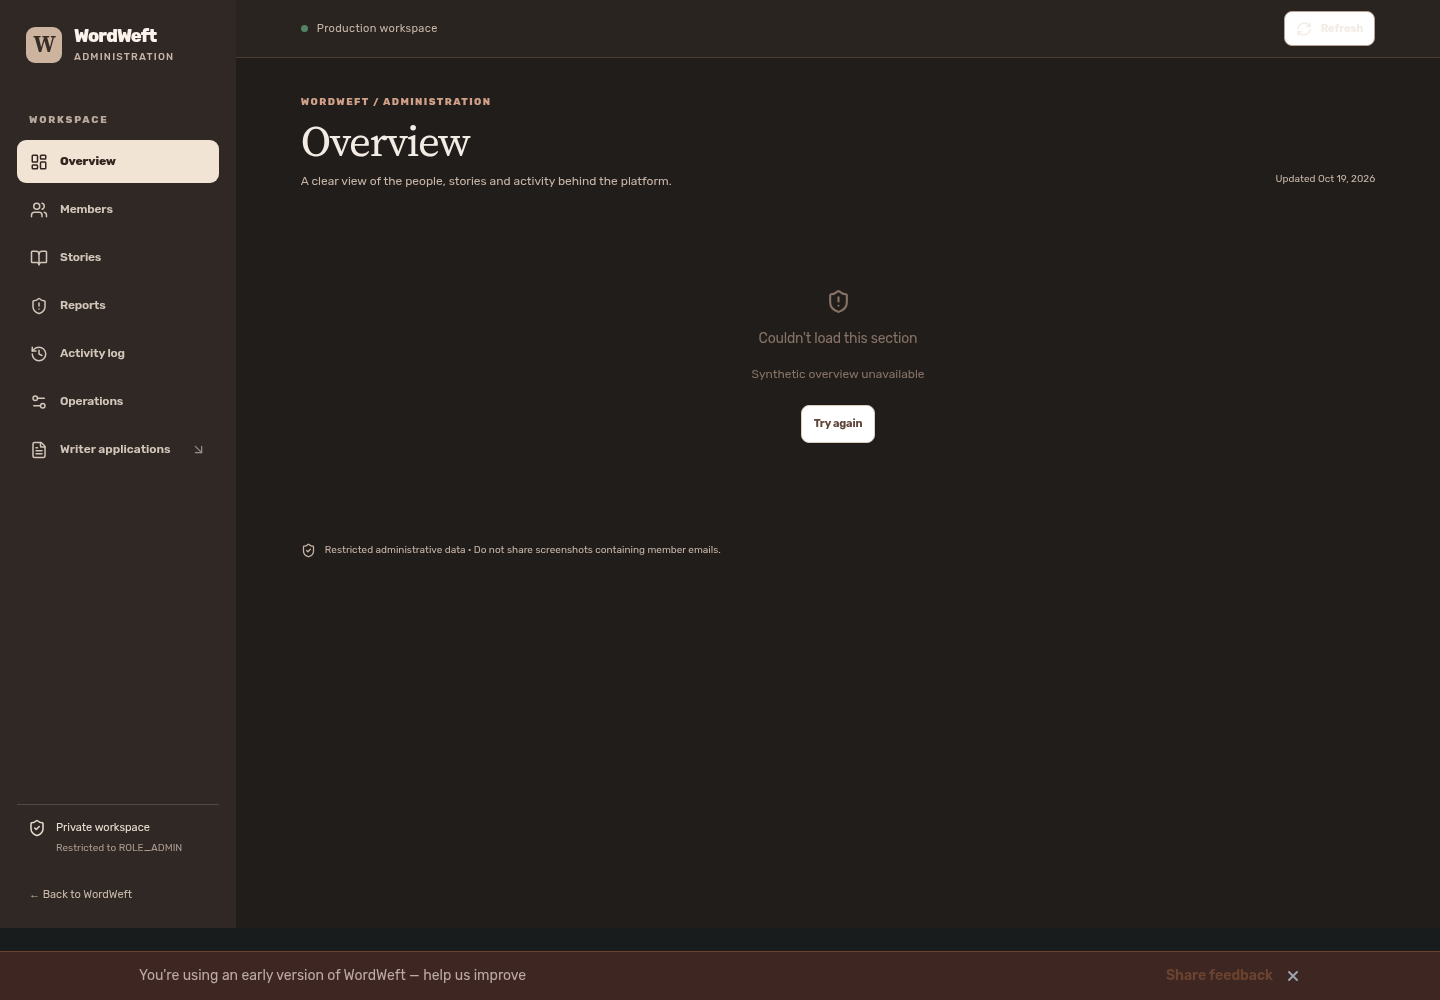
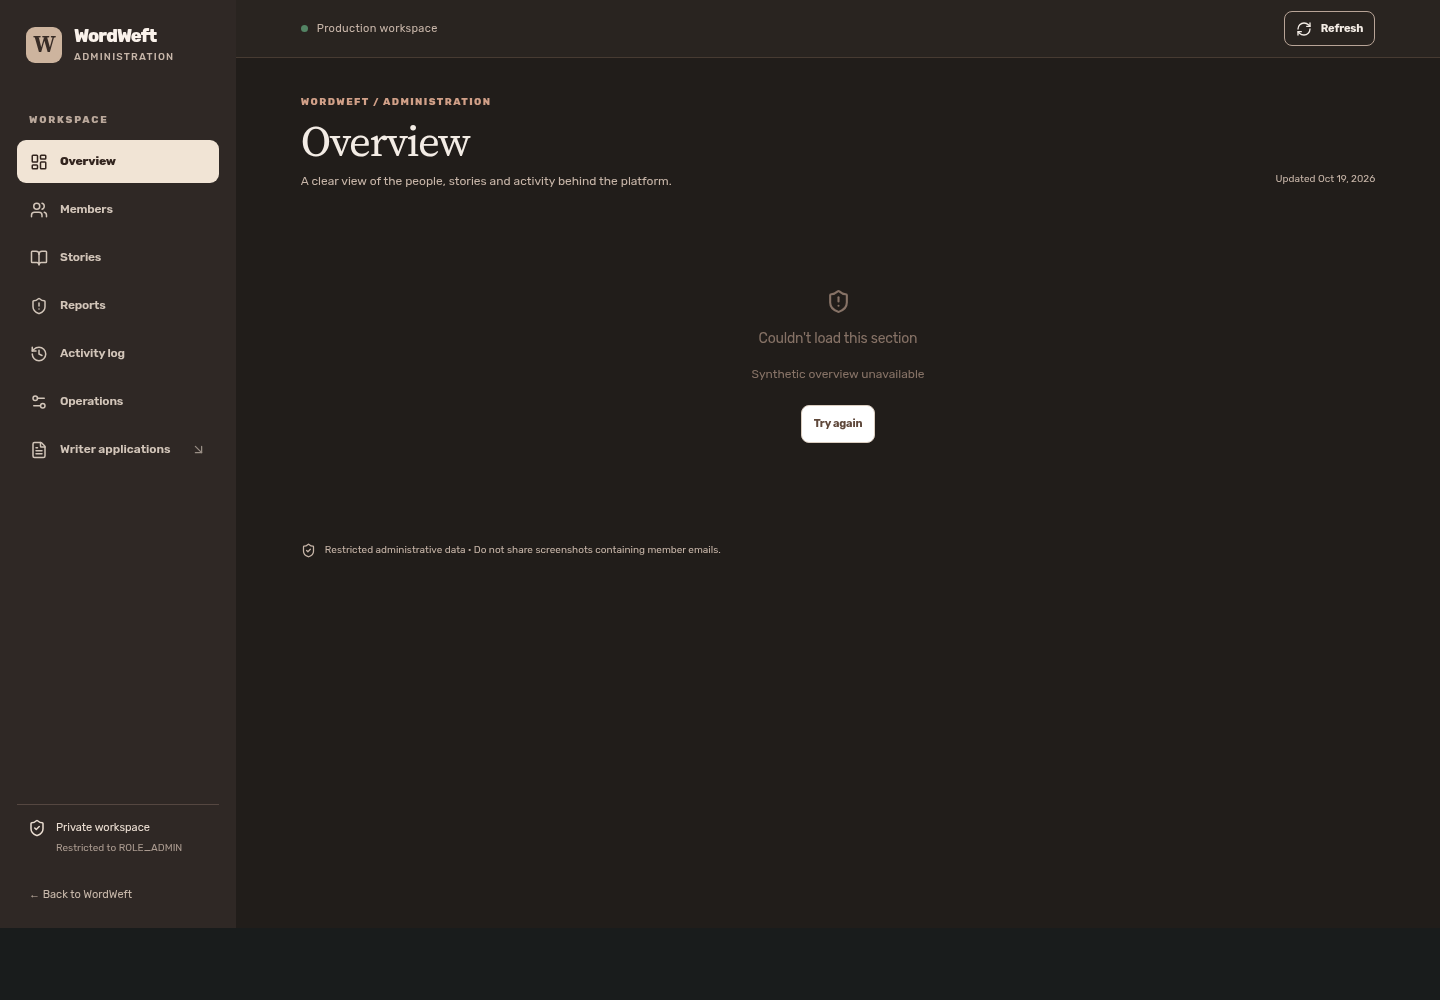
test: record issue 182 contrast proof

Changed region(s): [[0.0, 0.93, 1.0, 1.0], [0.875, 0.0, 0.9688, 0.062]]

diff --git a/.github/audit-fixes/182/README.md b/.github/audit-fixes/182/README.md
@@ -1,8 +1,8 @@
 # Issue 182 verification
 
-Before → after: administration kickers, timestamps, metric helpers, chart day labels and footer text used hardcoded muted colors that failed on canvas and panel surfaces. Reusing the existing admin accent and copy tokens raises the measured minimum from 3.252:1 to 4.840:1 in Light and from 3.371:1 to 6.651:1 in Dark. Layout, typography, metrics and access controls are unchanged.
+Before → after: administration kickers, timestamps, metric helpers, chart day labels and footer text used hardcoded muted colors that failed on canvas and panel surfaces. Reusing the existing admin accent and copy tokens raises the measured minimum from 3.252:1 to 4.840:1 in Light and from 3.371:1 to 6.651:1 in Dark. Layout, typography, metrics and access controls are unchanged. The Dark Refresh button now uses the admin panel surface behind its existing theme-aware ink, raising its contrast from 1.171:1 to 13.050:1 while preserving the Light button.
 
-The production baseline fails 14 of 16 rendered contrast checks. The fixed regression passes all 16 checks across Light/Dark, 1440/390px, populated/empty overview data, refresh and failed-load/retry states, with no scoped axe contrast violations. An ordinary-member session remains denied management data.
+The production baseline fails 16 of 20 rendered contrast checks. The fixed regression passes all 20 checks across Light/Dark, 1440/390px, populated/empty overview data, refresh and failed-load/retry states, with no scoped axe contrast violations. An ordinary-member session remains denied management data.
 
 Overview responses are intercepted with deterministic synthetic fixtures to compare the same counts, timestamp and chart labels; authentication and the admin route use the disposable local backend. Actual rendered chart labels are measured even where axe excludes descendants of role=img.
 
